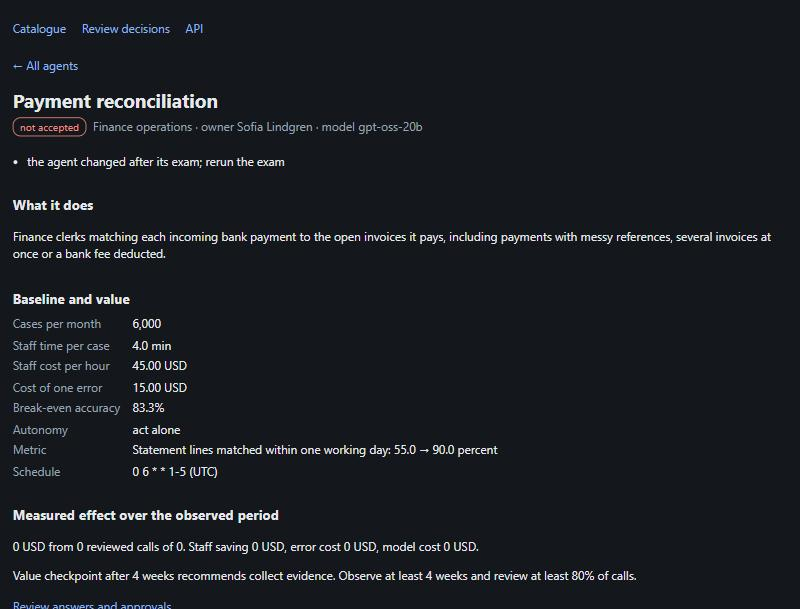
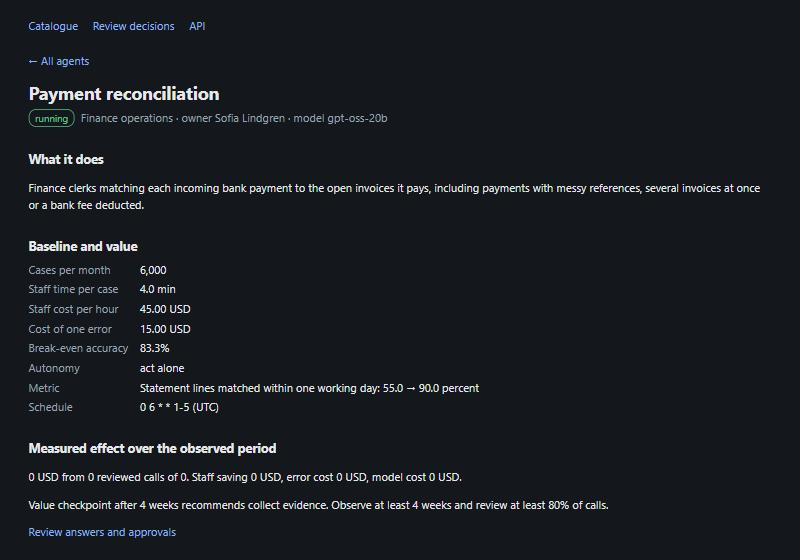
docs: refresh screenshots and link the latest acceptance run

diff --git a/README.md b/README.md
@@ -77,7 +77,7 @@ only when all three runs were correct.
 
 Both exams contain 40 cases and zero infrastructure failures. The accuracy lower bound uses
 90% one-sided confidence. The run summary and downloadable reports preserve the evidence.
-[Recorded acceptance run](https://github.com/kirmskhq/ai-agent-launch-platform/actions/runs/42999716228).
+[Recorded acceptance run](https://github.com/kirmskhq/ai-agent-launch-platform/actions/runs/45504287408).
 
 A statement line of 1,837.50 with the reference `inv 1201 + 1202 minus fee` names invoices of
 1,200 and 650. The model proposes those invoice IDs. Rules check ownership, amounts and the
